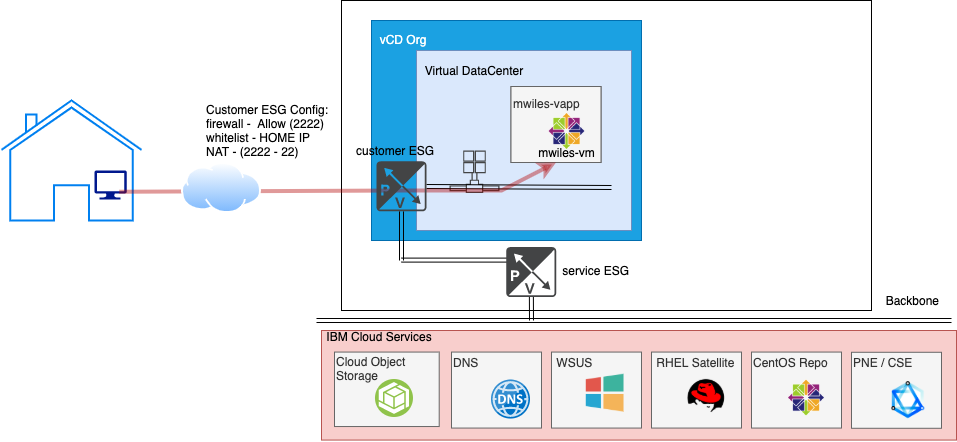
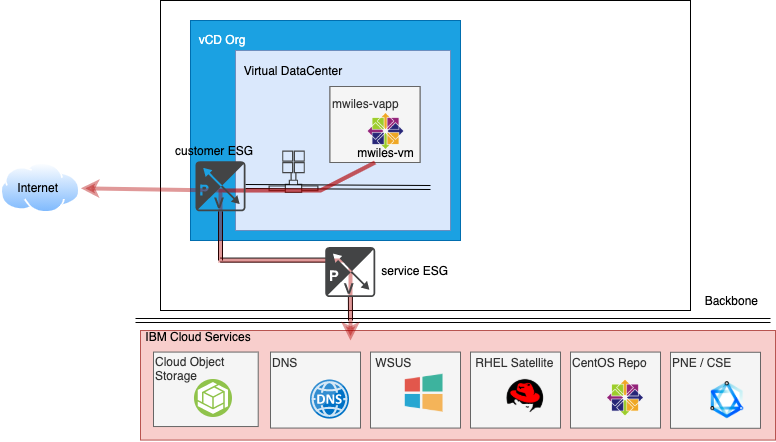
outbound access

diff --git a/vcd/outbound/index.md b/vcd/outbound/index.md
@@ -1,20 +1,163 @@
-## vCD - Internet access (Coming Soon)
+## vCD - Internet and IBM Cloud services access
 
-<!-- 
-Updated: 2020-11-25
---> 
+Updated: 2021-05-01 
 
-Work in progress.  Hope to post content soon... in the meantime, here's a smile.  Have a great day!
+### <a name="toc"></a>Table of Contents:
+  - [Overview](#overview)
+  - [Finished Picture](#finished)
+  - [Data Collection](#data)
+  - [Public IP](#publicip)
+  - [Service IP](#serviceip)
+  - [vDC Network](#vdcnetwork)
+  - [Virtual Machine IP](#vmip)
+  - [Allow Access outbound](#allow)
+  - [Test the rule](#test)
 
-<img src="../../mlwiles.png" width="100" style="border: 1px solid black">
+###  <a name="overview"></a>Overview
 
-<!-- 
-## Topic 1
-### SubTopic 1
+If you have requirements for your Virtual Machines to access either the Internet or IBM Cloud services, then you can configure SECURE outbound access for your VM.  This is great way to utilize the large portfolio of IBM Services as well as accessing your critical data that might be outside of IBM Cloud.
 
-_Note the information described in this example are guidelines.  There are multiple ways to configure the various parts of the example.  Please adjust accordingly for your needs._
+For more details on allowing external access to your VMs see [Secure inbound access](https://mlwiles.github.io/vmwaresolutions/vcd/inbound).
 
---> 
+Back to: [Menu](#toc)
+
+### <a name="finished"></a>Finished Picture
+
+The end goal is to open your Edge Service Gateway (ESG) to securely enable your VMs to access specific or all services that are available from IBM Cloud or from the public internet.
+
+Below is a use case where we will configure outbound access to both the IBM Cloud services as well as the public Internet for our VM in our vDC.   
+
+<img src="images/1-complete.png" style="border: 1px solid black">
+Back to: [Menu](#toc)
+
+This will demonstrate unrestricted access to all services external to the vDC.  You should identify requirements for your vDC VMs and restrict as needed either by more restrictive ESG Firewall rules or some other means.
+
+### <a name="data"></a>Data Collection 
+
+For this example, we need the following information:
+- Public IP address for my ESG (see below): `169.59.231.66`
+- Service IP address for my ESG (see below): `52.117.132.80`
+- vDC Network CIDR: (see below): `172.16.10.0/24`
+
+Back to: [Menu](#toc)
+
+### <a name="publicip"></a>Public IP address range can be found on your ESG
+
+Networking > Edges > EDGENAME > External Networks > IP Allocations<br>
+There will be 5 IP addresses assigned to your ESG at creation time.  Any of these will work for this purpose.  Select one of the IPs to use as public outbound IP:  169.59.231.66
+
+<img src="images/2-esg-publicips.png" style="border: 1px solid black">
+
+Back to: [Menu](#toc)
+
+### <a name="publicip"></a>Service IP address range can be found on your ESG
+
+Networking > Edges > EDGENAME > External Networks > IP Settings<br>
+There will be 1 IP address assigned to your ESG at creation time to access the service network (IBM Cloud services).  For this ESG the service outbound IP:  52.117.132.80
+
+<img src="images/2-esg-serviceip.png" style="border: 1px solid black">
+
+Back to: [Menu](#toc)
+
+### <a name="vdcnetwork"></a>vDC Network
+
+You must create a network if one does not already exist that will be used to route the inbound traffic.
+
+For this example, I created a network with the following criteria:
+- Gateway CIDR: `172.16.10.1/24`
+- Type: `Routed`
+- Connection Type: `Subinterface`
+- Static IP Pool: `172.16.10.10-172.16.10.20`
+
+Review [vCD -   Networks made easy](https://mlwiles.github.io/vmwaresolutions/vcd/network101/) for additional information on how to create a network.
+
+<img src="images/3-network.png" style="border: 1px solid black">
+
+If using vApps, the network must be attached to the vApp.  
+
+Compute > vApps > Networks > New
+
+<img src="images/4-vapp-network.png" style="border: 1px solid black">
+
+OrgVDC Network > 172.16.10.0/24 (in the case of this example)
+
+<img src="images/5-vapp-network.png" style="border: 1px solid black">
+
+Back to: [Menu](#toc)
+
+### <a name="vmip"></a>Virtual Machine IP
+
+Make sure you have a VM attached to the Network and assign an IP
+
+Compute > vApps > Virtual Machine > MACHINE > Hardware > NICs > Edit
+
+<img src="images/6-vm-network.png" style="border: 1px solid black">
+
+Select the NIC
+- Primary NIC
+- Connected
+- Network (`172.16.10.0/24` in the case of this example)
+- IP Mode (`Static - Manual` for this example)
+- IP (`172.16.10.22` in the case of this example)
+
+<img src="images/7-vm-network.png" style="border: 1px solid black">
+
+Once set, Force Customization on the VM to have VMWare Tools setup the networking.
+
+<img src="images/8-vm-poweron.png" style="border: 1px solid black">
+
+Back to: [Menu](#toc)
+
+### <a name="allow"></a>Allow Access outbound
+
+Create the ESG Firewall rule to allow the outbound traffic.  In this case we are going to allow ALL traffic from the network that was created above: `172.16.10.0/24` 
+
+Networking > Edges > EDGENAME > Services<br>
+
+<img src="images/9-esg-firewall.png" style="border: 1px solid black">
+
+From the Firewall tab, select the `+` to add a new rule.  Edit the contents of the rule:
+- Name: `Public Outbound Secure`
+- Source: Network, Interface, or IP (for this example `172.16.10.0/24`)
+- Destination: Where to allow traffic (for this example `Any`)
+- Service: What service to allow (for this example `Any`)
+
+Don't forget to `Save changes`
+
+<img src="images/10-esg-firewall.png" style="border: 1px solid black">
+
+Create the ESG SNAT rules to allow the internal network traffic to access the public internet, select `+ SNAT` button to add a new SNAT rule:
+- Applied on: `tenant external network`
+- Original IP Address: vDC Network CIDR: `172.16.10.0/24`
+- Translated IP Address: Public IP address for my ESG: `169.59.231.66`
+
+Create a second ESG SNAT rules to allow the internal network traffic to access the IBM Cloud services, select `+ SNAT` button to add a new SNAT rule:
+- Applied on: `service network`
+- Original IP Address: vDC Network CIDR: `172.16.10.0/24`
+- Translated IP Address: Service IP address for my ESG: `52.117.132.80`
+
+Don't forget to `Save changes`
+
+<img src="images/11-esg-dnat.png" style="border: 1px solid black">
+
+Back to: [Menu](#toc)
+
+### <a name="test"></a>Test the rule
+
+To test the rule, I will open a web console to the VM we deployed and try simple ping tests:<br>
+`ping 1.1.1.1` (Public internet -- Cloudflare WARP)<br>
+`ping 161.26.0.10` (Services network -- IBM Cloud DNS server)
+
+Compute > Virtual Machine > MACHINE > Actions > Launch Web Console
+
+<img src="images/12-test.png" style="border: 1px solid black">
+
+For more details on deploying VMs see [vCD - Simple Deploy of a VM](https://mlwiles.github.io/vmwaresolutions/vcd/vm101/).
+
+Back to: [Menu](#toc)
+
+_Note the information described in this example are guidelines.  There are multiple ways to configure the various parts of the example.  Please adjust accordingly for your needs._ 
 
 [VMWare vCloud Director](https://mlwiles.github.io/vmwaresolutions/vcd/)<br/>
 [Main Page](https://mlwiles.github.io/vmwaresolutions)
+

diff --git a/vcd/inbound/index.md b/vcd/inbound/index.md
@@ -2,14 +2,30 @@
 
 Updated: 2021-04-25
 
+### <a name="toc"></a>Table of Contents:
+  - [Overview](#overview)
+  - [Finished Picture](#finished)
+  - [Data Collection](#data)
+  - [Public IP](#publicip)
+  - [vDC Network](#vdcnetwork)
+  - [Virtual Machine IP](#vmip)
+  - [Allow Access inbound](#allow)
+  - [Test the rule](#test)
+
+###  <a name="overview"></a>Overview
+
 If you are finding that the Web Console in your vDC is not quite meeting your needs:<br>
 Compute > Virtual Machine > MACHINE > Actions > Launch Web Console
 
 <img src="images/0-webconsole.png" style="border: 1px solid black">
 
- then you can configure SECURE inbound access to your VM.  This is great to taking advantage of copy / paste, larger resolution, or just working on your environment without the requirement of the admin portal.
+then you can configure SECURE inbound access to your VM.  This is a great way to take advantage of copy / paste, larger resolution, or just working on your environment without the requirement of the admin portal.
 
-### Finished Picture
+For more details on allowing your VMs Internet or IBM Cloud services access see [Internet and IBM Cloud services access](https://mlwiles.github.io/vmwaresolutions/vcd/outbound/).
+
+Back to: [Menu](#toc)
+
+### <a name="finished"></a>Finished Picture
 
 The end goal is to open your Edge Service Gateway (ESG) to securely enable you to connect either via Secure Shell (SSH), Remote Desktop (RDP), etc ... to your VM(s).
 
@@ -17,21 +33,27 @@ Below is a use case where we will configure inbound SSH from a whitelisted (HOME
 
 <img src="images/1-complete.png" style="border: 1px solid black">
 
-### Data Collection 
+Back to: [Menu](#toc)
+
+### <a name="data"></a>Data Collection 
 
 For this example, we need the following information:
 - Home or remote IP address (e.g. [What's my IP](https://whatismyipaddress.com/)): `75.183.214.216`
 - Public IP address for my ESG (see below): `169.59.231.66`
 - Virtual Machine IP: (see below): `172.16.10.22`
 
-### Public IP address range can be found on your ESG
+Back to: [Menu](#toc)
+
+### <a name="publicip"></a>Public IP address range can be found on your ESG
 
 Networking > Edges > EDGENAME > External Networks > IP Allocations<br>
 There will be 5 IP addresses assigned to your ESG at creation time.  Any of these will work for this purpose.  Select one of the IPs to use as inbound IP:  169.59.231.66
 
 <img src="images/2-esg-publicips.png" style="border: 1px solid black">
 
-### vDC Network
+Back to: [Menu](#toc)
+
+### <a name="vdcnetwork"></a>vDC Network
 
 You must create a network if one does not already exist that will be used to route the inbound traffic.
 
@@ -55,7 +77,9 @@ OrgVDC Network > 172.16.10.0/24 (in the case of this example)
 
 <img src="images/5-vapp-network.png" style="border: 1px solid black">
 
-### Virtual Machine IP
+Back to: [Menu](#toc)
+
+### <a name="vmip"></a>Virtual Machine IP
 
 Make sure you have a VM attached to the Network and assign an IP
 
@@ -76,7 +100,9 @@ Once set, Force Customization on the VM to have VMWare Tools setup the networkin
 
 <img src="images/8-vm-poweron.png" style="border: 1px solid black">
 
-### Allow Access inbound
+Back to: [Menu](#toc)
+
+### <a name="allow"></a>Allow Access inbound
 
 Create the ESG Firewall rule to allow the inbound traffic.  In this case we are going to allow traffic from the Remote IP on Port 2222
 
@@ -87,6 +113,7 @@ Networking > Edges > EDGENAME > Services<br>
 From the Firewall tab, select the `+` to add a new rule.  Edit the contents of the rule:
 - Name: `Inbound Secure`
 - Source: Remote IP address (for this example `75.183.214.216`)
+- Destination: Where to allow traffic (for this example `Any`)
 - Service: What service to allow (for this example TCP with a destination port of `2222`)
 
 Don't forget to `Save changes`
@@ -104,18 +131,20 @@ Don't forget to `Save changes`
 
 <img src="images/11-esg-dnat.png" style="border: 1px solid black">
 
-### Test the rule
+Back to: [Menu](#toc)
+
+### <a name="test"></a>Test the rule
 
 To test the rule, I will open a terminal on my local machine and try to ssh to the machine:<br>
 `ssh root@169.59.231.66 -p 2222`
 
 <img src="images/12-test.png" style="border: 1px solid black">
 
-For more details on deploying VMs see [vCD - Simple Deploy of a VM
-](https://mlwiles.github.io/vmwaresolutions/vcd/vm101/).
+For more details on deploying VMs see [vCD - Simple Deploy of a VM](https://mlwiles.github.io/vmwaresolutions/vcd/vm101/).
+
+Back to: [Menu](#toc)
 
 _Note the information described in this example are guidelines.  There are multiple ways to configure the various parts of the example.  Please adjust accordingly for your needs._
 
 [VMWare vCloud Director](https://mlwiles.github.io/vmwaresolutions/vcd/)<br/>
 [Main Page](https://mlwiles.github.io/vmwaresolutions)
-

diff --git a/vcd/index.md b/vcd/index.md
@@ -11,16 +11,17 @@ Some different use cases involving vCD. Most likely these will be using VMWare S
   - [Simple Deploy of a VM](https://mlwiles.github.io/vmwaresolutions/vcd/vm101/)
   - [Networking made easy](https://mlwiles.github.io/vmwaresolutions/vcd/network101/)
   - [Customized VMs](https://mlwiles.github.io/vmwaresolutions/vcd/custom-vms/)
-  - [Outbound access](https://mlwiles.github.io/vmwaresolutions/vcd/outbound/)
+  - [Internet and IBM Cloud services access](https://mlwiles.github.io/vmwaresolutions/vcd/outbound/)
   - [Secure inbound access](https://mlwiles.github.io/vmwaresolutions/vcd/inbound/)
-  - [Creating vAPP Templates](https://mlwiles.github.io/vmwaresolutions/vcd/vapp-templates/)
+  - [Network troubleshooting(_coming soon_)](https://mlwiles.github.io/vmwaresolutions/vcd/networktrouble/)
+  - [Creating vAPP Templates (_coming soon_)](https://mlwiles.github.io/vmwaresolutions/vcd/vapp-templates/)
 - Private Network Enpoints (PNE)
   - [Order IBM Private Network Endpoint (PNE)](https://mlwiles.github.io/vmwaresolutions/vcd/order-pne/)
   - [IPSec Tunnel over IBM PNE - ESG](https://mlwiles.github.io/vmwaresolutions/vcd/ipsec-esg-pne/)
   - [IPSec Tunnel over IBM PNE - SRX](https://mlwiles.github.io/vmwaresolutions/vcd/ipsec-srx-pne/)
-  - [IPSec Tunnel over IBM PNE - Vyatta](https://mlwiles.github.io/vmwaresolutions/vcd/ipsec-vyatta-pne/)
-  - [IPSec Tunnel over IBM PNE - Fortigate](https://mlwiles.github.io/vmwaresolutions/vcd/ipsec-fortigate-pne/)
+  - [IPSec Tunnel over IBM PNE - Vyatta (_coming soon_)](https://mlwiles.github.io/vmwaresolutions/vcd/ipsec-vyatta-pne/)
+  - [IPSec Tunnel over IBM PNE - Fortigate (_coming soon_)](https://mlwiles.github.io/vmwaresolutions/vcd/ipsec-fortigate-pne/)
 - Terraform
-  - [Terraform deploying all OS templates](https://mlwiles.github.io/vmwaresolutions/vcd/terraform/all/)
+  - [Terraform deploying all OS templates (_coming soon_)](https://mlwiles.github.io/vmwaresolutions/vcd/terraform/all/)
 
 [Main Page](https://mlwiles.github.io/vmwaresolutions)

diff --git a/vcd/networktrouble/index.md b/vcd/networktrouble/index.md
@@ -1,0 +1,20 @@
+## vCD - Network Troubleshooting (Coming Soon)
+
+<!-- 
+Updated: 2021-05-01
+--> 
+
+Work in progress.  Hope to post content soon... in the meantime, here's a smile.  Have a great day!
+
+<img src="../../mlwiles.png" width="100" style="border: 1px solid black">
+
+<!-- 
+## Topic 1
+### SubTopic 1
+
+_Note the information described in this example are guidelines.  There are multiple ways to configure the various parts of the example.  Please adjust accordingly for your needs._
+
+--> 
+
+[VMWare vCloud Director](https://mlwiles.github.io/vmwaresolutions/vcd/)<br/>
+[Main Page](https://mlwiles.github.io/vmwaresolutions)

diff --git a/vas/index.md b/vas/index.md
@@ -9,6 +9,6 @@
 Some different use cases involving Veeam Backup Services.  Most of these will be focused on intevgration with VMWare vCloud Director. Most likely these will be using VMWare Solutions on IBM Cloud, but will try to make reference when its more of a generic solution or an IBM specific offering.
 
 - [Setup a simple backup job](https://mlwiles.github.io/vmwaresolutions/vas/backup/)
-- [Restore from backup](https://mlwiles.github.io/vmwaresolutions/vas/restore/)
+- [Restore from backup (_coming soon_)](https://mlwiles.github.io/vmwaresolutions/vas/restore/)
 
 [Main Page](https://mlwiles.github.io/vmwaresolutions)
